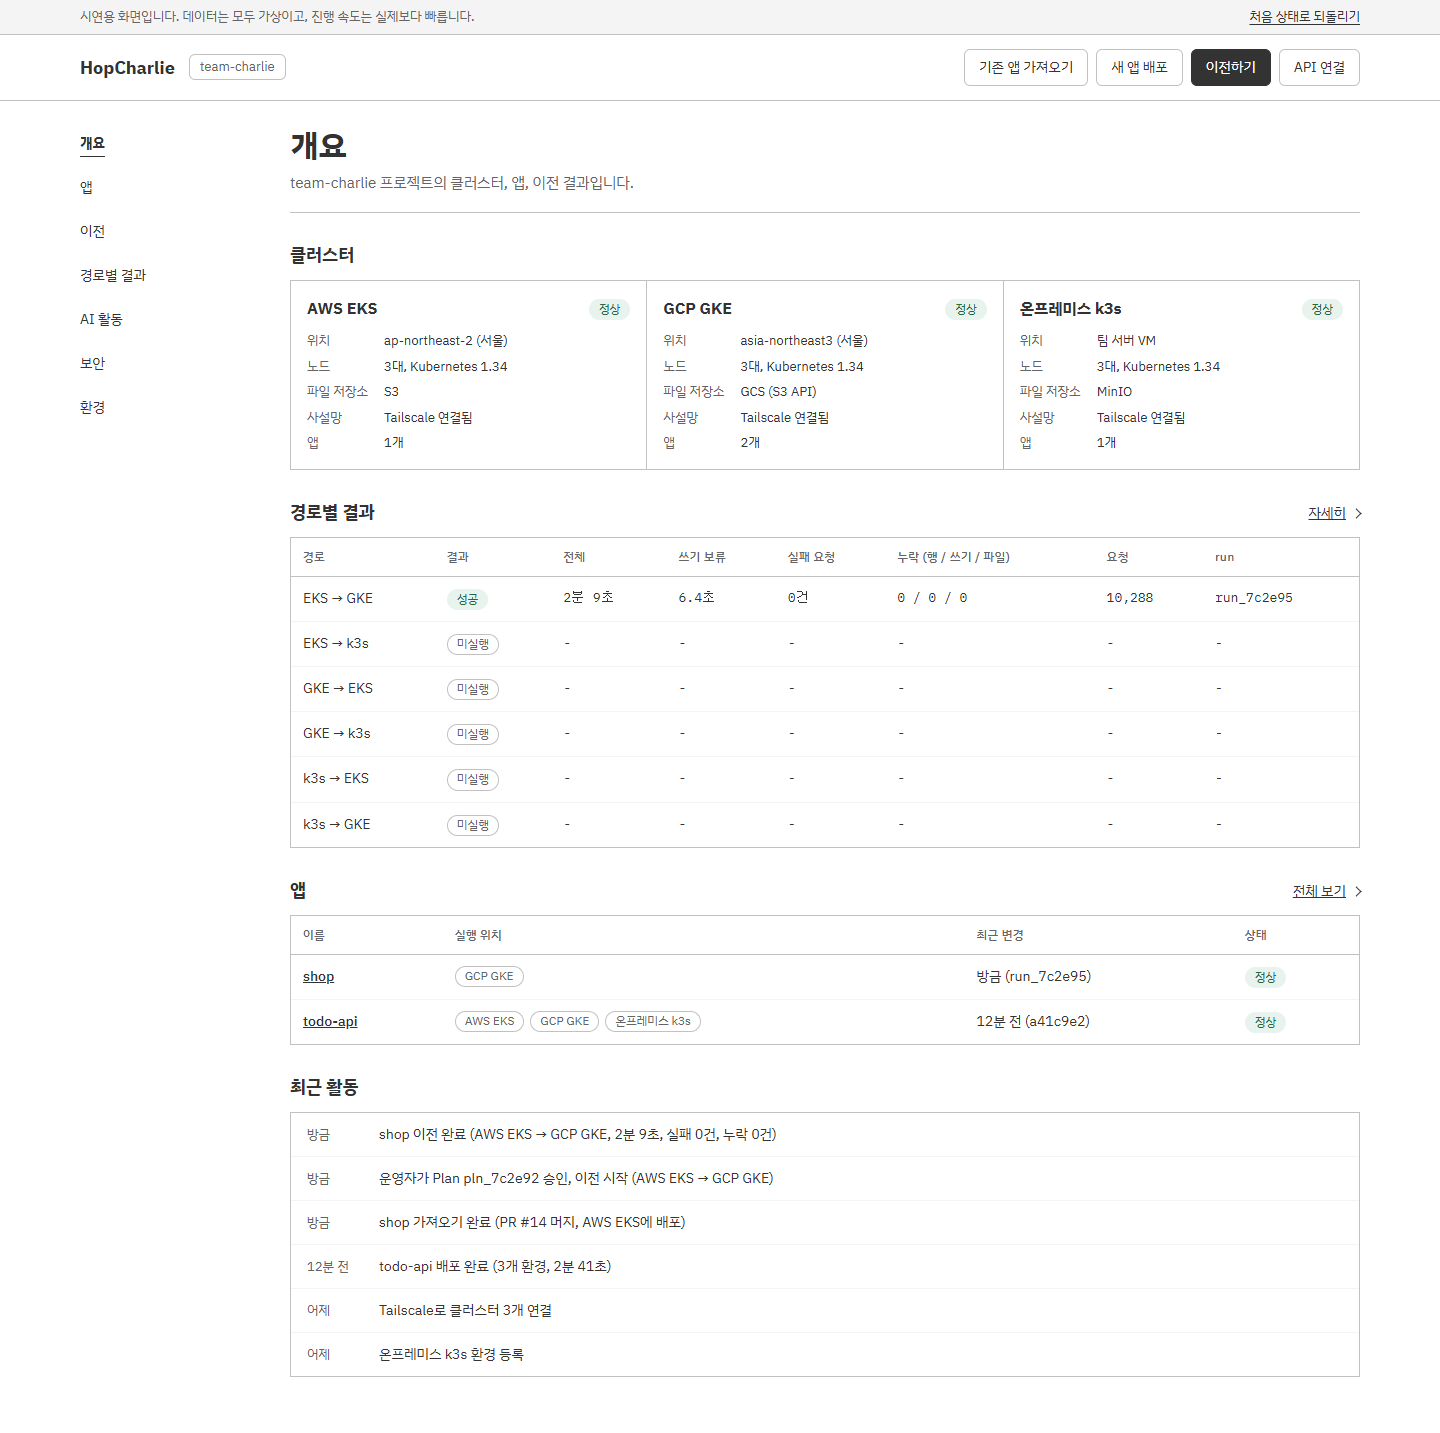
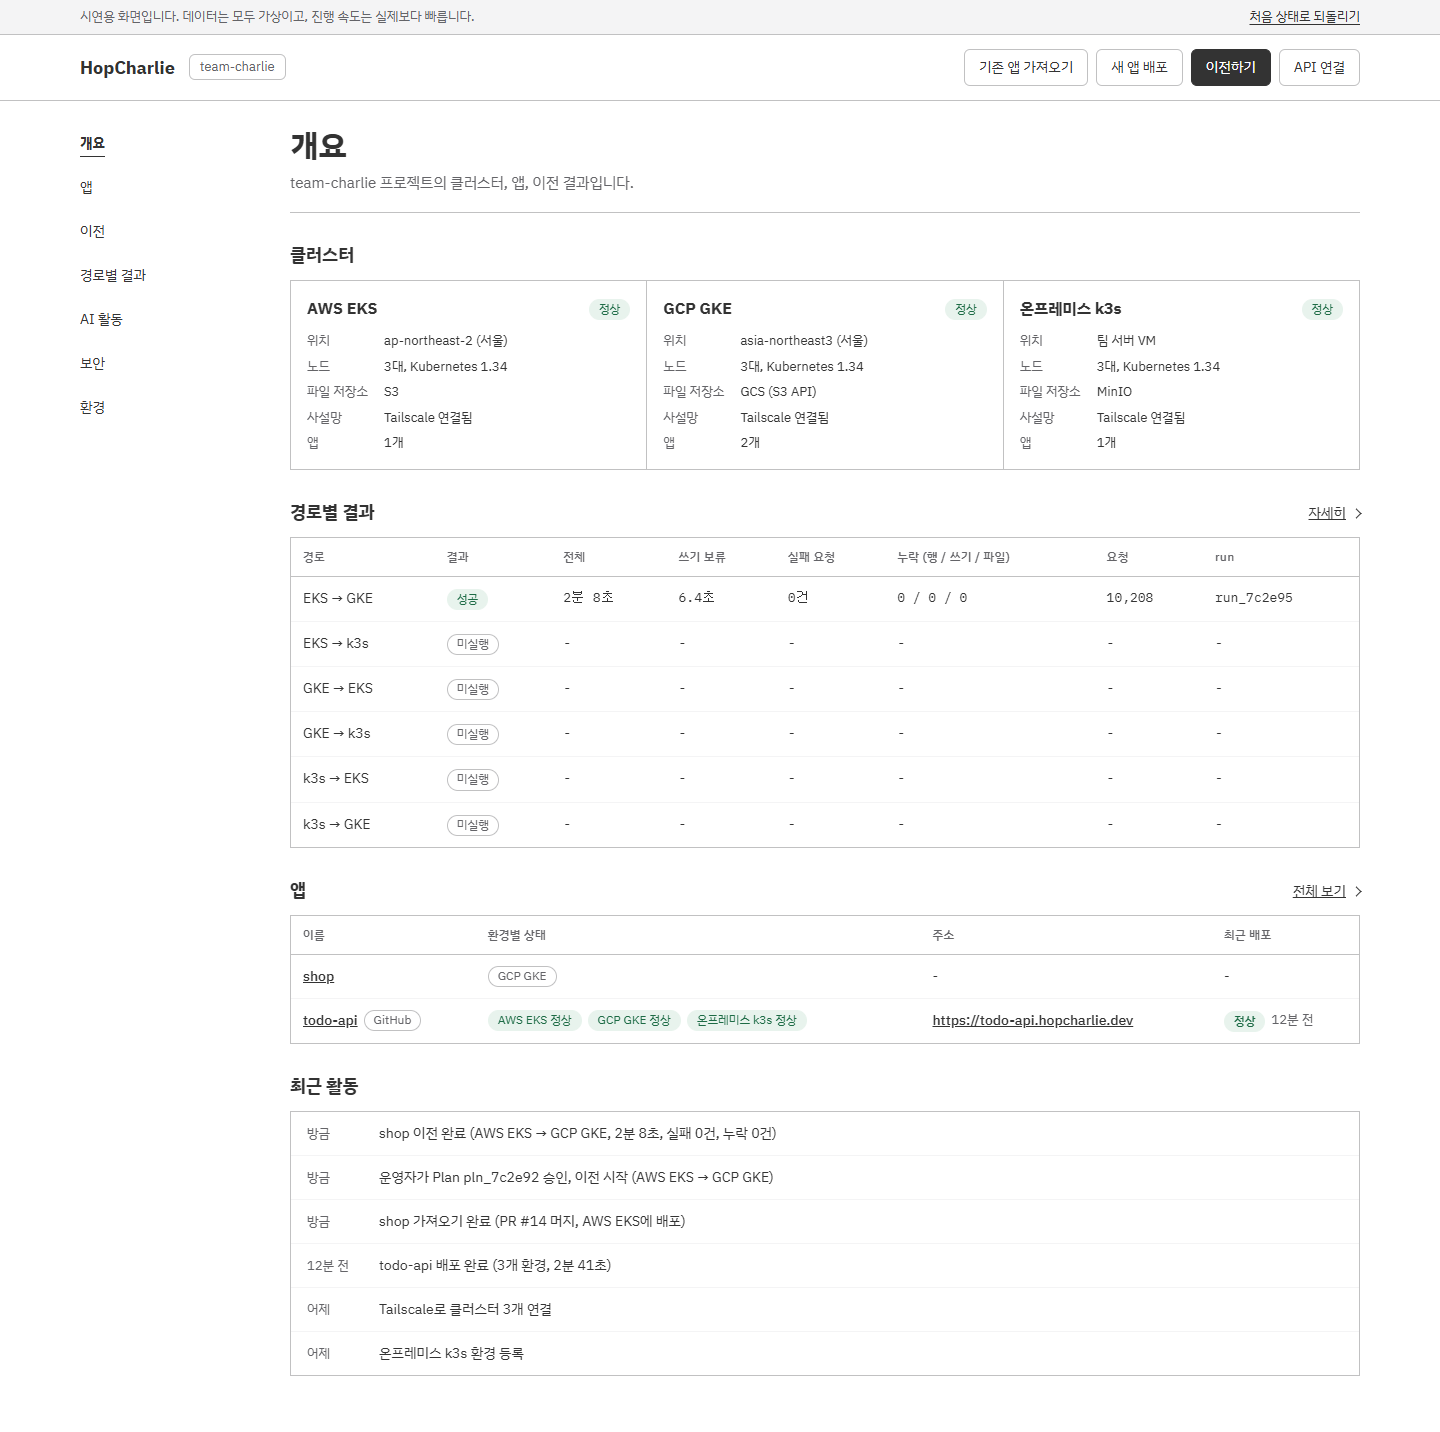
docs: 개요 스크린샷을 지금 화면으로 바꾸고 문서 출처 밝힘
- 개요 스크린샷이 v3 화면이라 #6에서 바뀐 앱 목록(환경별 상태, 주소, 최근 배포)이 빠져 있었음. 같은 상태(shop을 EKS→GKE로 이전한 뒤)로 다시 찍음
- AI 범위 결정(3장 7번)이 팀 주제 정리 문서의 장 번호라는 것을 밝힘

diff --git a/README.md b/README.md
@@ -36,7 +36,7 @@ npm run build      # 타입 검사 + 프로덕션 빌드
 ![개요](docs/screenshots/overview.png)
 
 ### 기존 앱 가져오기
-플랫폼 밖(EC2, RDS, S3)에서 돌던 앱을 AI가 점검하고 고쳐서 클러스터에 첫 배포합니다. AI 범위 결정(3장 7번) 전 시안입니다.
+플랫폼 밖(EC2, RDS, S3)에서 돌던 앱을 AI가 점검하고 고쳐서 클러스터에 첫 배포합니다. AI 범위 결정(팀 주제 정리 문서 3장 7번) 전 시안입니다.
 
 | 1. 연결 정보 | 2. AI 점검 |
 | --- | --- |
@@ -132,7 +132,7 @@ GitHub 레포로 앱을 등록하고 배포하는 화면입니다(ADR 0011).
 상태는 계약의 8가지(`running`, `awaiting_switch`, `succeeded`, `rolled_back`, `halted`, `failed`, `aborted`, `interrupted`)를 각각 다르게 표시합니다. 대상 승격을 요청하기 전(`promoteRequested` 전)에는 실패하면 원복하고, 그 뒤에는 멈춥니다.
 
 - 샘플 앱 서비스 목록과 보안 시연 데이터는 자리표시입니다. `MOCK:` 주석을 검색하면 바꿀 곳이 나옵니다.
-- 기존 앱 가져오기(AI 점검 → 샌드박스 테스트 → PR 승인 → 첫 배포)는 AI 범위 결정(3장 7번) 전 시안입니다.
+- 기존 앱 가져오기(AI 점검 → 샌드박스 테스트 → PR 승인 → 첫 배포)는 AI 범위 결정(팀 주제 정리 문서 3장 7번) 전 시안입니다.
 
 ## 구조
 ```
